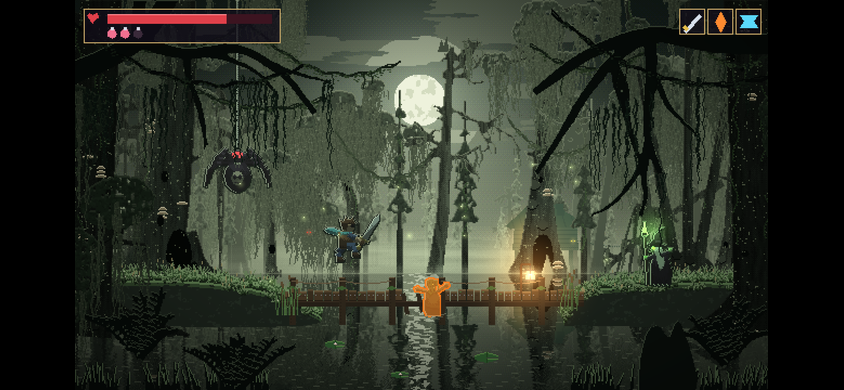
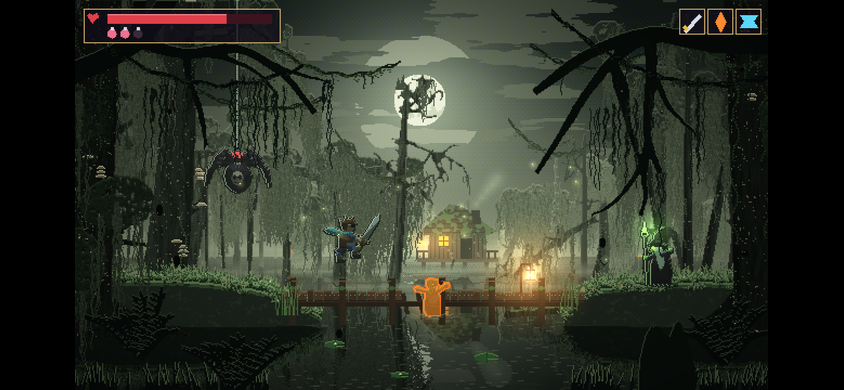
ART13b: swamp example with real depth (six distance planes, each with its own waterline and reflection) and the cabin back, now detailed
Claude-Session: https://claude.ai/code/session_018E1RbT7Agev2Psz4WcAtF7

diff --git a/tools/art/final_swamp.py b/tools/art/final_swamp.py
@@ -21,6 +21,7 @@ from art.final_example import moss, lily, reeds, lantern, spider, witch, zombie,
 
 ROOT = os.path.dirname(os.path.dirname(os.path.dirname(os.path.abspath(__file__))))
 WATER = 252
+HZ = 236                     # the horizon: where the far shore meets the water
 MOON = (318, 92)
 SKY_HI, SKY_LO, MIST = C('#16201c'), C('#a4b08e'), C('#b8c4a0')
 NEAR = C('#0a110d')
@@ -594,6 +595,50 @@ def bank(img, pts, seed, d, grass_col=C('#3e5a34')):
 
 # ============================================================================================== the scene
 
+def cabin(img, x, base, fogt):
+    """The witch's cabin on stilts: plank walls, a sagging mossy roof, a lit window, a porch with a lantern, a smoking
+    chimney and a rowboat tied below."""
+    f = lambda c: mix(c, depth_col(0.0), fogt)
+    wood, dark, roofc, moss_c = f(C('#4a3e2c')), f(C('#1e1a12')), f(C('#33301e')), f(C('#4e6a3a'))
+    top = base - 46
+    for sx in (x - 30, x - 12, x + 8, x + 28):                          # stilts
+        fill(img, mask([cap((sx, top + 30), (sx + (sx % 3 - 1), base + 2), 2.2)]), dark)
+    fill(img, mask([poly((x - 36, top + 30), (x + 38, top + 30), (x + 38, top + 33), (x - 36, top + 33))]), wood)       # porch floor
+    for k in range(-36, 38, 6):
+        fill(img, mask([cap((x + k, top + 30), (x + k, top + 24), 0.8)]), dark)                                         # railing
+    fill(img, mask([cap((x - 36, top + 24), (x + 38, top + 24), 0.8)]), dark)
+    body = mask([poly((x - 26, top + 30), (x - 25, top + 4), (x + 26, top + 3), (x + 27, top + 30))])
+    fill(img, body, wood)
+    for k in range(-24, 27, 4):                                          # vertical boards
+        fill(img, body & (np.abs(XX - (x + k)) < 0.5), dark)
+    fill(img, body & (fbm(XX / 3, YY / 6, 2, 7) > 0.72), wood * 1.25)
+    roof = mask([poly((x - 34, top + 6), (x - 6, top - 20), (x + 4, top - 18), (x + 36, top + 5), (x + 30, top + 8), (x - 30, top + 9))])
+    fill(img, roof, roofc)
+    for k in range(6):                                                   # shingle rows
+        fill(img, roof & (np.abs(YY - (top - 14 + k * 4)) < 0.5), dark)
+    fill(img, roof & (fbm(XX / 4, YY / 4, 2, 8) > 0.55), moss_c)
+    moss(img, [(xx, top + 8) for xx in range(x - 30, x + 32, 5)], f(C('#3a4a30')), f(C('#5a6a46')), 5, 1.2, 14)
+    fill(img, mask([poly((x + 14, top - 14), (x + 21, top - 14), (x + 22, top - 2), (x + 15, top - 2))]), dark)        # chimney
+    for k in range(5):                                                   # smoke drifting
+        glow(img, x + 18 + k * 5, top - 20 - k * 6, 7 + k * 2, f(C('#8a9480')) * 0.5, 0.35)
+    wx, wy_ = x - 16, top + 10                                           # the lit window
+    img[wy_:wy_ + 9, wx:wx + 9] = C('#ffb84a')
+    img[wy_ + 4, wx:wx + 9] = C('#6a3a12')
+    img[wy_:wy_ + 9, wx + 4] = C('#6a3a12')
+    img[wy_ + 9, wx - 1:wx + 10] = dark
+    glow(img, wx + 4, wy_ + 4, 40, C('#ff9a3a'), 0.4)
+    fill(img, mask([poly((x + 4, top + 30), (x + 4, top + 12), (x + 14, top + 12), (x + 14, top + 30))]), dark)     # door
+    img[top + 21, x + 12] = C('#a89a74')
+    lx, ly = x - 32, top + 14                                            # porch lantern
+    fill(img, mask([cap((lx, top + 6), (lx, ly), 0.6)]), dark)
+    img[ly:ly + 4, lx - 1:lx + 2] = C('#ffcf6a')
+    glow(img, lx, ly + 2, 22, C('#ff9a3a'), 0.45)
+    boat = mask([poly((x - 40, base - 1), (x - 6, base - 1), (x - 10, base + 3), (x - 36, base + 3))])                 # rowboat
+    fill(img, boat, f(C('#3a2a1c')))
+    fill(img, boat & ~np.roll(boat, 1, 0), f(C('#6a5236')))
+    fill(img, mask([cap((x - 6, base - 1), (x - 2, top + 32), 0.5)]), dark)                                           # rope
+
+
 def scene():
     # sky: dark at the top, a pale glow around the low moon
     t = np.clip(YY / WATER, 0, 1)
@@ -608,54 +653,70 @@ def scene():
     fill(img, mm, C('#eef2dc'))
     fill(img, mm & (fbm(XX / 7, YY / 7, 3, 9) > 0.58), C('#d4dcc0'))
     fill(img, clouds & (dm < 60), C('#c8d2b4'), 0.5)
-    # far forest skyline: a low ridge of trees and many thin pines and snags
+    # the water: one still surface from the horizon down, mirroring the sky; every plane below adds its own reflection
+    objs = np.zeros((H, W), bool)
+    wy = YY >= HZ
+    src = np.clip(2 * HZ - YY, 0, H - 1).astype(int)
+    depth = np.clip((YY - HZ) / 120, 0, 1)
+    sky_refl = img[src, XX.astype(int)]
+    img[wy] = (sky_refl * (0.7 - 0.4 * depth[..., None]) + C('#050a08') * (0.3 + 0.4 * depth[..., None]))[wy]
+    wob = fbm(XX / 6, YY / 2, 2, 13)
+    streak = wy & (np.abs(XX - MOON[0] + (wob - 0.5) * 10) < 16 - (YY - HZ) * 0.07) & (fbm(XX / 5, YY / 1.5, 2, 14) > 0.5)
+    fill(img, streak, C('#e0e8cc'), 0.55)
     rng = np.random.default_rng(2)
-    ridge = WATER - 18 - 10 * fbm(XX[0] / 40, np.zeros(W), 3, 3) * 2
-    rm = YY > ridge[None, :]
-    fill(img, rm, depth_col(0.1))
-    items = [(rng.uniform(-10, W + 10), WATER - 8, rng.uniform(30, 110), rng.uniform(3.5, 6)) for _ in range(52)]
-    layer(img, items, 0.12, 11, [0.6, 0.35, 0.05], moss_on=False, rim=0.3)
-    mist(img, WATER - 20, 26, 0.75, 3)
-    items = [(rng.uniform(-10, W + 10), WATER - 2, rng.uniform(70, 170), rng.uniform(5.5, 8.5)) for _ in range(26)]
-    layer(img, items, 0.3, 12, [0.5, 0.3, 0.2], rim=0.45)
-    hut(img, 404, WATER - 52, 0.55)
-    mist(img, WATER - 8, 20, 0.6, 4)
-    # mid cypresses standing in the water
-    items = [(66, WATER + 2, 210, 12, 'banyan'), (182, WATER + 2, 250, 6, 'skinny'), (262, WATER + 1, 150, 8, 'willow'),
-             (432, WATER + 2, 240, 20, 'hollow'), (530, WATER + 1, 170, 7, 'mangrove'), (606, WATER + 1, 200, 8, 'broken')]
-    layer(img, items, 0.52, 21, [0.0, 0.25, 0.75], rim=0.55)
-    items = [(x, WATER + 1, rng.uniform(120, 200), 8.5) for x in (30, 300, 360, 470, 610)]
-    layer(img, items, 0.6, 23, [0.85, 0.15, 0.0], moss_on=False, rim=0.5)
-    dead_tree(img, 340, WATER + 1, 210, 7, 0.5, 81)
-    dead_tree(img, 486, WATER + 1, 150, 5, 0.45, 82)
-    dead_tree(img, 22, WATER + 2, 240, 9, 0.62, 83)
-    for (x, y, c) in ((214, 214, '#ff3a2a'), (458, 222, '#ffc84a'), (98, 228, '#ff3a2a')):     # eyes in the dark
+
+    def plane(base, draw, refl=0.55):
+        """Draw one distance plane, then mirror it in the water about its own waterline."""
+        nonlocal objs
+        before = img.copy()
+        draw()
+        ch = np.abs(img - before).sum(axis=2) > 0.004
+        objs |= ch
+        sy = (2 * base - YY).astype(int)
+        rip = (np.sin(YY * 1.9 + np.sin(XX / 13)) * np.clip(YY - base, 0, None) / 50).astype(int)
+        sx = np.clip(XX.astype(int) + rip, 0, W - 1)
+        ok = (YY > base) & (sy >= 0) & ~ch
+        syc = np.clip(sy, 0, H - 1)
+        hit = ok & ch[syc, sx]
+        dk = np.clip((YY - base) / 140, 0, 1)
+        col = img[syc, sx] * (refl - 0.25 * dk[..., None]) + C('#050a08') * (1 - refl + 0.25 * dk[..., None])
+        img[hit] = col[hit]
+
+    # plane 0: the far shore at the horizon, a ridge of tiny pines and snags
+    def p0():
+        ridge = HZ - 8 - 8 * fbm(XX[0] / 40, np.zeros(W), 3, 3) * 2
+        fill(img, (YY > ridge[None, :]) & (YY <= HZ), depth_col(0.08))
+        layer(img, [(rng.uniform(-10, W + 10), HZ, rng.uniform(22, 60), rng.uniform(2.5, 4)) for _ in range(46)], 0.08, 11,
+              [0.6, 0.35, 0.05], moss_on=False, rim=0.25)
+    plane(HZ, p0, 0.5)
+    mist(img, HZ - 6, 18, 0.8, 3)
+    # plane 1: small trees standing in the water far away
+    plane(244, lambda: layer(img, [(x, 244, rng.uniform(50, 100), rng.uniform(3.5, 5.0)) for x in
+                                   (14, 70, 118, 172, 214, 400, 444, 492, 540, 590, 630)], 0.24, 12, [0.4, 0.3, 0.3], rim=0.4))
+    mist(img, 240, 14, 0.7, 4)
+    # plane 2: the cabin on stilts in a clearing, a few trees around it, eyes in the dark
+    def p2():
+        layer(img, [(150, 254, 120, 5.5), (226, 254, 140, 6), (470, 254, 130, 6), (560, 254, 110, 5.5)], 0.38, 13, [0.3, 0.2, 0.5], rim=0.45)
+        cabin(img, 352, 254, 0.42)
+    plane(254, p2, 0.6)
+    for (x, y, c) in ((198, 232, '#ff3a2a'), (520, 236, '#ffc84a')):
         img[y, x] = img[y, x + 3] = C(c)
         glow(img, x + 1.5, y, 5, C(c), 0.3)
-    mist(img, WATER + 2, 12, 0.5, 6)
-    fallen_log(img, 470, 600, WATER + 4, 9, 91)
-    # the water: a still mirror of the sky and the trees, darker and rippled closer to us
-    above = img.copy()
-    wy = YY >= WATER
-    src = np.clip(2 * WATER - YY, 0, H - 1).astype(int)
-    rip = (np.sin(YY * 1.9 + np.sin(XX / 13)) * (YY - WATER) / 60).astype(int)
-    srcx = np.clip(XX.astype(int) + rip, 0, W - 1)
-    refl = above[src, srcx]
-    depth = np.clip((YY - WATER) / 110, 0, 1)
-    water = refl * (0.78 - 0.4 * depth[..., None]) + C('#050a08') * (0.22 + 0.4 * depth[..., None])
-    img[wy] = water[wy]
-    wob = fbm(XX / 6, YY / 2, 2, 13)
-    streak = wy & (np.abs(XX - MOON[0] + (wob - 0.5) * 10) < 16 - (YY - WATER) * 0.08) & (fbm(XX / 5, YY / 1.5, 2, 14) > 0.5)
-    fill(img, streak, C('#e0e8cc'), 0.55)
-    ripl = wy & (np.sin(XX / 9 + YY * 1.7) > 0.95) & (fbm(XX / 30, YY / 4, 2, 7) > 0.55)
-    fill(img, ripl, mix(SKY_LO, NEAR, 0.4), 0.5)
-    img[WATER, :] = mix(img[WATER, :], MIST, 0.35)
+    mist(img, 250, 12, 0.6, 5)
+    # plane 3: big old trees in the middle distance
+    plane(268, lambda: (layer(img, [(110, 268, 170, 9, 'banyan'), (250, 268, 150, 7, 'willow'), (488, 268, 160, 7, 'broken')], 0.52, 21,
+                                [0, 0, 1], rim=0.55), dead_tree(img, 300, 268, 190, 6, 0.5, 81)), 0.55)
+    mist(img, 264, 10, 0.45, 6)
+    # plane 4: closer trees at the sides, a fallen log
+    plane(286, lambda: (layer(img, [(30, 286, 250, 10, 'hollow'), (196, 286, 230, 6, 'skinny'), (540, 286, 210, 8, 'mangrove')], 0.66, 22,
+                                [0, 0, 1], rim=0.6), dead_tree(img, 612, 286, 230, 8, 0.64, 83), fallen_log(img, 400, 520, 288, 8, 91)), 0.5)
+    ripl = wy & ~objs & (np.sin(XX / 9 + YY * 1.7) > 0.95) & (fbm(XX / 30, YY / 4, 2, 7) > 0.55)
+    fill(img, ripl, mix(SKY_LO, NEAR, 0.4), 0.45)
     # big cypresses at the sides, in front of the water
-    items = [(96, WATER + 6, 360, 16, 'giant'), (566, WATER + 8, 320, 11, 'triple')]
-    layer(img, items, 0.78, 31, [0.0, 0.0, 1.0], rim=0.7)
+    plane(306, lambda: layer(img, [(96, 306, 360, 16, 'giant'), (566, 308, 320, 11, 'triple')], 0.8, 31, [0.0, 0.0, 1.0], rim=0.7), 0.45)
     # mossy banks and the half-sunken boardwalk between them
-    bank(img, [(-20, 300), (-10, 266), (60, 258), (140, 262), (196, 276), (214, 300)], 41, 0.82)
-    bank(img, [(450, 300), (470, 270), (530, 262), (600, 260), (660, 266), (660, 300)], 42, 0.82)
+    plane(300, lambda: (bank(img, [(-20, 300), (-10, 266), (60, 258), (140, 262), (196, 276), (214, 300)], 41, 0.82),
+                        bank(img, [(450, 300), (470, 270), (530, 262), (600, 260), (660, 266), (660, 300)], 42, 0.82)), 0.4)
     from art.final_example import boardwalk
     sub = img.copy()
     boardwalk(sub, 190, 470, 270, broken=(300, 326))
